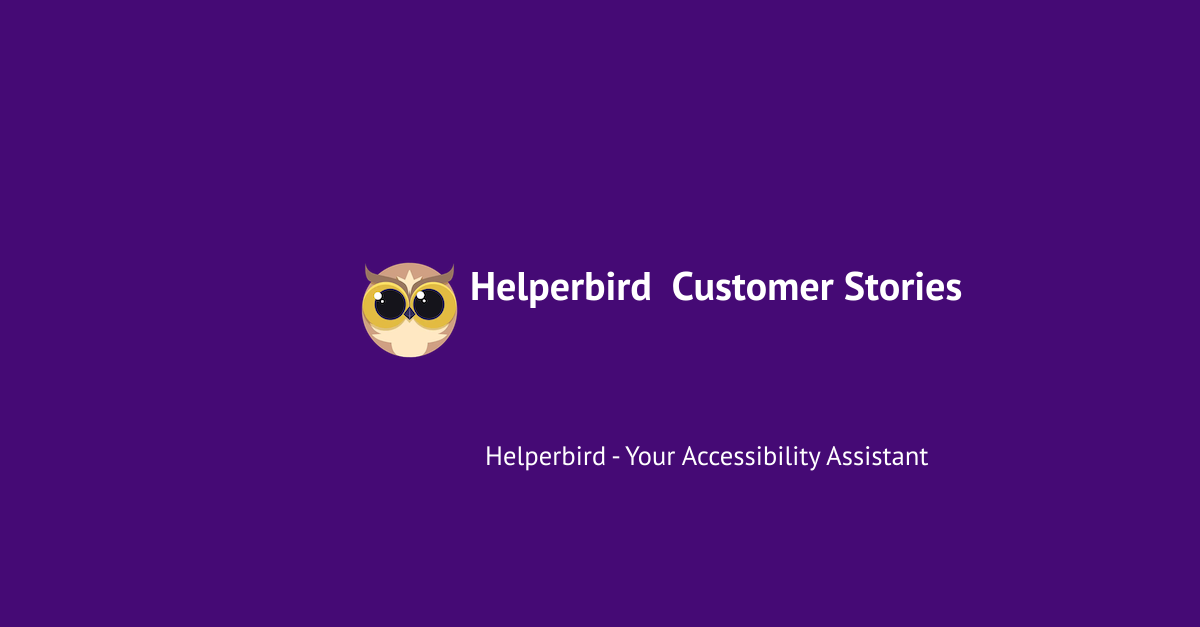
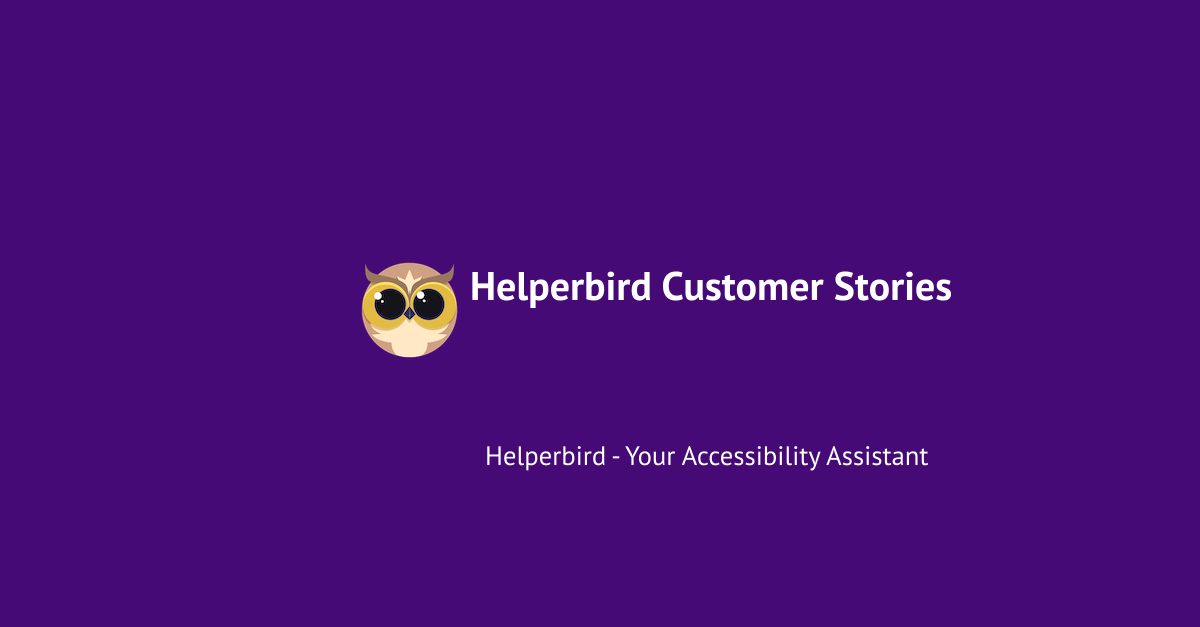
Deploying to gh-pages from  @ 8ba14b4f15c50b489070ff6d0cf342bdd75d0721 🚀

Changed region(s): [[0.555, 0.4242, 0.8017, 0.4848]]

diff --git a/usecases/index.html b/usecases/index.html
@@ -3,7 +3,7 @@
 <head>
   <meta charset="utf-8">
   <meta name="viewport" content="width=device-width, initial-scale=1.0">
-  <title>Helperbird  Customer Stories &amp; Case Studies - Helperbird</title>
+  <title>Customer Stories & Case Studies - Helperbird</title>
   <link href="/assets/js/main.css" rel="stylesheet" />
   <script>
     if ('serviceWorker' in navigator) {
@@ -13,7 +13,7 @@
 
   <link rel="canonical" href="https://www.helperbird.com/usecases/">
   <meta name="description" content="Explore genuine customer stories and detailed case studies highlighting the transformative impact of the Helperbird Chrome extension. Discover how users overcome learning challenges, enhance readability, and experience tailored digital solutions. Dive into success stories that validate Helperbird's commitment to accessibility and user-centric design.">
-  <meta name="keywords" content="Dyslexia software, Reading Mode for Google Chrome, Voice typing for Chrome, Text to speech for Chrome, text reader, Immersive Reader, dyslexia fonts, accessibility software, dyslexia software, Helperbird for Edge, Helperbird for Firefox, Helperbird for Chrome, Opendyslexic for Chrome, OpenDyslexic">
+  <meta name="keywords" content="Dyslexia software, Reading Mode for Google Chrome, Voice typing for Chrome, Text to speech for Chrome, text reader, Immersive Reader, dyslexia fonts, accessibility software, dyslexia software, Helperbird for Edge, Helperbird for Firefox, Helperbird for Chrome, OpenDyslexic for Chrome, OpenDyslexic">
 
   <meta name="theme-color" content="#5046e4">
   <meta itemprop="name" content="Helperbird">
@@ -23,18 +23,18 @@
   <meta name="twitter:card" content="summary_large_image">
   <meta name="twitter:site" content="@helperbird">
   <meta name="twitter:creator" content="@robertjgabriel">
-  <meta name="twitter:title" content="Helperbird  Customer Stories &amp; Case Studies">
+  <meta name="twitter:title" content="Customer Stories & Case Studies">
   <meta property="twitter:domain" content="helperbird.com">
 
   <meta property="twitter:url" content="https://www.helperbird.com/usecases/">
   <meta name="twitter:description" content="Explore genuine customer stories and detailed case studies highlighting the transformative impact of the Helperbird Chrome extension. Discover how users overcome learning challenges, enhance readability, and experience tailored digital solutions. Dive into success stories that validate Helperbird's commitment to accessibility and user-centric design.">
 
-  <meta name="twitter:image:alt" content="Helperbird promo art with text saying Helperbird  Customer Stories &amp; Case Studies">
+  <meta name="twitter:image:alt" content="Helperbird promo art with text saying Customer Stories & Case Studies">
   <meta name="twitter:image" content="https://www.helperbird.com/usecases/index.png">
 
   <meta property="og:locale" content="en_US">
   <meta property="og:type" content="website">
-  <meta property="og:title" content="Helperbird  Customer Stories &amp; Case Studies">
+  <meta property="og:title" content="Customer Stories & Case Studies">
   <meta property="og:description" content="Explore genuine customer stories and detailed case studies highlighting the transformative impact of the Helperbird Chrome extension. Discover how users overcome learning challenges, enhance readability, and experience tailored digital solutions. Dive into success stories that validate Helperbird's commitment to accessibility and user-centric design.">
   <meta property="og:url" content="https://www.helperbird.com/usecases/">
   <meta property="og:site_name" content="Helperbird">
@@ -2398,21 +2398,15 @@ aria-hidden="true"><g><rect fill="none" height="24" width="24"/></g><g><path d="
       
 
 
-<div class="mx-auto max-w-3xl mb-8 mt-8">
-
-<div class="px-6 py-16 lg:px-8 mb-4">
-
-    <h2 class="leading-relaxed font-sans text-center   text-3xl font-bold   text-black sm:text-5xl">Helperbird  Customer Stories &amp; Case Studies 
-    </h2>
-    <p class="leading-relaxed font-sans text-center    mt-6 text-xl  text-black sm:text-2xl">
-
-    Read from our customers on how Helperbird is changing their life.
-
+<div class="px-6 py-20 sm:py-16 lg:px-4 mb-4">
+  <div class="mx-auto max-w-4xl text-center">
+    <h2 class="leading-relaxed font-sans text-4xl font-bold text-black sm:text-6xl">Customer Stories &amp; Case Studies </h2>
+    <p class="leading-relaxed font-sans mt-6 text-2xl text-black">
+      Read from our customers on how Helperbird is changing their life.
     </p>
-
+  </div>
 </div>
 
-</div>
 
 
 
@@ -2420,87 +2414,118 @@ aria-hidden="true"><g><rect fill="none" height="24" width="24"/></g><g><path d="
 
 
 
-<div class="mx-auto  grid max-w-2xl grid-cols-1 gap-x-8 gap-y-20 lg:mx-0 lg:max-w-none md:grid-cols-3 lg:grid-cols-4 mt-16 mb-16 "><div class="card bg-white rounded-xl overflow-hidden flex flex-col">
+
+<div class="mx-auto grid max-w-2xl grid-cols-1 gap-x-8 gap-y-20 lg:mx-0 lg:max-w-none md:grid-cols-3 lg:grid-cols-4 mt-16 mb-16"><div class="card bg-white rounded-xl overflow-hidden flex flex-col">
       <figure class="p-4">
-          <img src="/assets/images/blog/reword-function-student-success-story/reword-helperbird.png" alt="Empowering Students with Helperbird’s Reword Function"
-               class="aspect-[16/9] w-full rounded-xl bg-gray-100 object-cover sm:aspect-[2/1] lg:aspect-[3/2]" />
+        <img 
+          src="/assets/images/blog/reword-function-student-success-story/reword-helperbird.png" 
+          alt="Empowering Students with Helperbird’s Reword Function" 
+          class="aspect-[16/9] w-full rounded-xl bg-gray-100 object-cover sm:aspect-[2/1] lg:aspect-[3/2]" 
+        />
       </figure>
-      <div class="card-body tw-p-4 flex flex-col flex-grow">
-          <h3 class="card-title font-bold">Empowering Students with Helperbird’s Reword Function</h3>
-          <div class="badge badge-secondary">Usecase</div>
-          <p class="my-6 text-base text-black overflow-hidden line-clamp-3 mb-4 mt-4">Dive into Alex’s transformative marketing journey with Helperbird's Immersive Reader. Learn how the Read Aloud and Text Spacing features significantly eased his workload, enabling more efficient and effective campaign management.</p>
-    
-              <div class="card-actions justify-end mt-4">
-                  <a href="/blog/reword-function-student-success-story/" title="Empowering Students with Helperbird’s Reword Function"
-                  class="link link-hover text-blue-500 hover:text-blue-700">Read use case</a>
-              </div>
-   
+      <div class="card-body p-4 flex flex-col flex-grow">
+        <h3 class="card-title font-bold text-lg">Empowering Students with Helperbird’s Reword Function</h3>
+        <div class="badge badge-secondary mt-2 mb-4">Usecase</div>
+        <p class="text-base text-black overflow-hidden line-clamp-3 mb-4">Dive into Alex’s transformative marketing journey with Helperbird's Immersive Reader. Learn how the Read Aloud and Text Spacing features significantly eased his workload, enabling more efficient and effective campaign management.</p>
+        <div class="card-actions mt-auto">
+          <a 
+            href="/blog/reword-function-student-success-story/" 
+            title="Read more about Empowering Students with Helperbird’s Reword Function" 
+            class="link link-hover text-blue-500 hover:text-blue-700"
+          >
+            Read use case
+          </a>
+        </div>
       </div>
-  </div><div class="card bg-white rounded-xl overflow-hidden flex flex-col">
+    </div><div class="card bg-white rounded-xl overflow-hidden flex flex-col">
       <figure class="p-4">
-          <img src="/assets/images/blog/helperbird-dyslexia-solutions-jamies-story/helperbird-ruler.png" alt="How Helperbird Transformed a Student's Academic Experience"
-               class="aspect-[16/9] w-full rounded-xl bg-gray-100 object-cover sm:aspect-[2/1] lg:aspect-[3/2]" />
+        <img 
+          src="/assets/images/blog/helperbird-dyslexia-solutions-jamies-story/helperbird-ruler.png" 
+          alt="How Helperbird Transformed a Student's Academic Experience" 
+          class="aspect-[16/9] w-full rounded-xl bg-gray-100 object-cover sm:aspect-[2/1] lg:aspect-[3/2]" 
+        />
       </figure>
-      <div class="card-body tw-p-4 flex flex-col flex-grow">
-          <h3 class="card-title font-bold">How Helperbird Transformed a Student's Academic Experience</h3>
-          <div class="badge badge-secondary">Usecase</div>
-          <p class="my-6 text-base text-black overflow-hidden line-clamp-3 mb-4 mt-4">Discover Jamie's inspirational story of overcoming reading challenges with the help of Helperbird's innovative features. Learn how the dyslexia ruler and Lexend font made a significant difference, and our commitment to protecting user identities while sharing their successes.</p>
-    
-              <div class="card-actions justify-end mt-4">
-                  <a href="/blog/helperbird-dyslexia-solutions-jamies-story/" title="How Helperbird Transformed a Student's Academic Experience"
-                  class="link link-hover text-blue-500 hover:text-blue-700">Read use case</a>
-              </div>
-   
+      <div class="card-body p-4 flex flex-col flex-grow">
+        <h3 class="card-title font-bold text-lg">How Helperbird Transformed a Student's Academic Experience</h3>
+        <div class="badge badge-secondary mt-2 mb-4">Usecase</div>
+        <p class="text-base text-black overflow-hidden line-clamp-3 mb-4">Discover Jamie's inspirational story of overcoming reading challenges with the help of Helperbird's innovative features. Learn how the dyslexia ruler and Lexend font made a significant difference, and our commitment to protecting user identities while sharing their successes.</p>
+        <div class="card-actions mt-auto">
+          <a 
+            href="/blog/helperbird-dyslexia-solutions-jamies-story/" 
+            title="Read more about How Helperbird Transformed a Student's Academic Experience" 
+            class="link link-hover text-blue-500 hover:text-blue-700"
+          >
+            Read use case
+          </a>
+        </div>
       </div>
-  </div><div class="card bg-white rounded-xl overflow-hidden flex flex-col">
+    </div><div class="card bg-white rounded-xl overflow-hidden flex flex-col">
       <figure class="p-4">
-          <img src="/assets/images/blog/immersive-reader-marketing-alexs-story/immersive-reader.png" alt="Elevating Marketing Efforts with Immersive Reader in Helperbird"
-               class="aspect-[16/9] w-full rounded-xl bg-gray-100 object-cover sm:aspect-[2/1] lg:aspect-[3/2]" />
+        <img 
+          src="/assets/images/blog/immersive-reader-marketing-alexs-story/immersive-reader.png" 
+          alt="Elevating Marketing Efforts with Immersive Reader in Helperbird" 
+          class="aspect-[16/9] w-full rounded-xl bg-gray-100 object-cover sm:aspect-[2/1] lg:aspect-[3/2]" 
+        />
       </figure>
-      <div class="card-body tw-p-4 flex flex-col flex-grow">
-          <h3 class="card-title font-bold">Elevating Marketing Efforts with Immersive Reader in Helperbird</h3>
-          <div class="badge badge-secondary">Usecase</div>
-          <p class="my-6 text-base text-black overflow-hidden line-clamp-3 mb-4 mt-4">Dive into Alex’s transformative marketing journey with Helperbird's Immersive Reader. Learn how the Read Aloud and Text Spacing features significantly eased his workload, enabling more efficient and effective campaign management.</p>
-    
-              <div class="card-actions justify-end mt-4">
-                  <a href="/blog/helperbird-immersive-reader-marketing-alexs-story/" title="Elevating Marketing Efforts with Immersive Reader in Helperbird"
-                  class="link link-hover text-blue-500 hover:text-blue-700">Read use case</a>
-              </div>
-   
+      <div class="card-body p-4 flex flex-col flex-grow">
+        <h3 class="card-title font-bold text-lg">Elevating Marketing Efforts with Immersive Reader in Helperbird</h3>
+        <div class="badge badge-secondary mt-2 mb-4">Usecase</div>
+        <p class="text-base text-black overflow-hidden line-clamp-3 mb-4">Dive into Alex’s transformative marketing journey with Helperbird's Immersive Reader. Learn how the Read Aloud and Text Spacing features significantly eased his workload, enabling more efficient and effective campaign management.</p>
+        <div class="card-actions mt-auto">
+          <a 
+            href="/blog/helperbird-immersive-reader-marketing-alexs-story/" 
+            title="Read more about Elevating Marketing Efforts with Immersive Reader in Helperbird" 
+            class="link link-hover text-blue-500 hover:text-blue-700"
+          >
+            Read use case
+          </a>
+        </div>
       </div>
-  </div><div class="card bg-white rounded-xl overflow-hidden flex flex-col">
+    </div><div class="card bg-white rounded-xl overflow-hidden flex flex-col">
       <figure class="p-4">
-          <img src="/assets/images/blog/helperbird-pdf-reader-rorys-story/pdf-reader.png" alt="Making PDFs Easier with Helperbird's PDF Reader"
-               class="aspect-[16/9] w-full rounded-xl bg-gray-100 object-cover sm:aspect-[2/1] lg:aspect-[3/2]" />
+        <img 
+          src="/assets/images/blog/helperbird-pdf-reader-rorys-story/pdf-reader.png" 
+          alt="Making PDFs Easier with Helperbird's PDF Reader" 
+          class="aspect-[16/9] w-full rounded-xl bg-gray-100 object-cover sm:aspect-[2/1] lg:aspect-[3/2]" 
+        />
       </figure>
-      <div class="card-body tw-p-4 flex flex-col flex-grow">
-          <h3 class="card-title font-bold">Making PDFs Easier with Helperbird's PDF Reader</h3>
-          <div class="badge badge-secondary">Usecase</div>
-          <p class="my-6 text-base text-black overflow-hidden line-clamp-3 mb-4 mt-4">Discover how rory, a hardworking professional, used Helperbird's PDF Reader to make dealing with PDF documents simpler and faster.</p>
-    
-              <div class="card-actions justify-end mt-4">
-                  <a href="/blog/helperbird-pdf-reader-rorys-story/" title="Making PDFs Easier with Helperbird's PDF Reader"
-                  class="link link-hover text-blue-500 hover:text-blue-700">Read use case</a>
-              </div>
-   
+      <div class="card-body p-4 flex flex-col flex-grow">
+        <h3 class="card-title font-bold text-lg">Making PDFs Easier with Helperbird's PDF Reader</h3>
+        <div class="badge badge-secondary mt-2 mb-4">Usecase</div>
+        <p class="text-base text-black overflow-hidden line-clamp-3 mb-4">Discover how rory, a hardworking professional, used Helperbird's PDF Reader to make dealing with PDF documents simpler and faster.</p>
+        <div class="card-actions mt-auto">
+          <a 
+            href="/blog/helperbird-pdf-reader-rorys-story/" 
+            title="Read more about Making PDFs Easier with Helperbird's PDF Reader" 
+            class="link link-hover text-blue-500 hover:text-blue-700"
+          >
+            Read use case
+          </a>
+        </div>
       </div>
-  </div><div class="card bg-white rounded-xl overflow-hidden flex flex-col">
+    </div><div class="card bg-white rounded-xl overflow-hidden flex flex-col">
       <figure class="p-4">
-          <img src="/assets/images/blog/helping-students-thrive-with-helperbirds-accessibility-tools/helperbird-tools.png" alt="Empowering Diverse Learners - Patricia's Story with Helperbird"
-               class="aspect-[16/9] w-full rounded-xl bg-gray-100 object-cover sm:aspect-[2/1] lg:aspect-[3/2]" />
+        <img 
+          src="/assets/images/blog/helping-students-thrive-with-helperbirds-accessibility-tools/helperbird-tools.png" 
+          alt="Empowering Diverse Learners - Patricia's Story with Helperbird" 
+          class="aspect-[16/9] w-full rounded-xl bg-gray-100 object-cover sm:aspect-[2/1] lg:aspect-[3/2]" 
+        />
       </figure>
-      <div class="card-body tw-p-4 flex flex-col flex-grow">
-          <h3 class="card-title font-bold">Empowering Diverse Learners - Patricia's Story with Helperbird</h3>
-          <div class="badge badge-secondary">Usecase</div>
-          <p class="my-6 text-base text-black overflow-hidden line-clamp-3 mb-4 mt-4">Patricia Ferris, an experienced teacher, transforms her classroom with Helperbird's accessibility tools, fostering independence and confidence among her students with diverse needs.</p>
-    
-              <div class="card-actions justify-end mt-4">
-                  <a href="/blog/helping-students-thrive-with-helperbirds-accessibility-tools/" title="Empowering Diverse Learners - Patricia's Story with Helperbird"
-                  class="link link-hover text-blue-500 hover:text-blue-700">Read use case</a>
-              </div>
-   
+      <div class="card-body p-4 flex flex-col flex-grow">
+        <h3 class="card-title font-bold text-lg">Empowering Diverse Learners - Patricia's Story with Helperbird</h3>
+        <div class="badge badge-secondary mt-2 mb-4">Usecase</div>
+        <p class="text-base text-black overflow-hidden line-clamp-3 mb-4">Patricia Ferris, an experienced teacher, transforms her classroom with Helperbird's accessibility tools, fostering independence and confidence among her students with diverse needs.</p>
+        <div class="card-actions mt-auto">
+          <a 
+            href="/blog/helping-students-thrive-with-helperbirds-accessibility-tools/" 
+            title="Read more about Empowering Diverse Learners - Patricia's Story with Helperbird" 
+            class="link link-hover text-blue-500 hover:text-blue-700"
+          >
+            Read use case
+          </a>
+        </div>
       </div>
-  </div></div>
+    </div></div>
 
 
 
@@ -2508,83 +2533,26 @@ aria-hidden="true"><g><rect fill="none" height="24" width="24"/></g><g><path d="
 
 
 
-<section class="rounded-xl shadow-md bg-white px-6 py-24 sm:py-32 lg:px-8 mt-16 mb-16 ">
-  <figure class="mx-auto max-w-2xl">
-    <p class="sr-only">5 out of 5 stars</p>
-    <div class="flex gap-x-1 text-blue-600">
-      <svg
-        class="h-5 w-5 flex-none"
-        viewBox="0 0 20 20"
-        fill="currentColor"
-        aria-hidden="true">
-        <path
-          fill-rule="evenodd"
-          d="M10.868 2.884c-.321-.772-1.415-.772-1.736 0l-1.83 4.401-4.753.381c-.833.067-1.171 1.107-.536 1.651l3.62 3.102-1.106 4.637c-.194.813.691 1.456 1.405 1.02L10 15.591l4.069 2.485c.713.436 1.598-.207 1.404-1.02l-1.106-4.637 3.62-3.102c.635-.544.297-1.584-.536-1.65l-4.752-.382-1.831-4.401z"
-          clip-rule="evenodd" />
-      </svg>
-      <svg
-        class="h-5 w-5 flex-none"
-        viewBox="0 0 20 20"
-        fill="currentColor"
-        aria-hidden="true">
-        <path
-          fill-rule="evenodd"
-          d="M10.868 2.884c-.321-.772-1.415-.772-1.736 0l-1.83 4.401-4.753.381c-.833.067-1.171 1.107-.536 1.651l3.62 3.102-1.106 4.637c-.194.813.691 1.456 1.405 1.02L10 15.591l4.069 2.485c.713.436 1.598-.207 1.404-1.02l-1.106-4.637 3.62-3.102c.635-.544.297-1.584-.536-1.65l-4.752-.382-1.831-4.401z"
-          clip-rule="evenodd" />
-      </svg>
-      <svg
-        class="h-5 w-5 flex-none"
-        viewBox="0 0 20 20"
-        fill="currentColor"
-        aria-hidden="true">
-        <path
-          fill-rule="evenodd"
-          d="M10.868 2.884c-.321-.772-1.415-.772-1.736 0l-1.83 4.401-4.753.381c-.833.067-1.171 1.107-.536 1.651l3.62 3.102-1.106 4.637c-.194.813.691 1.456 1.405 1.02L10 15.591l4.069 2.485c.713.436 1.598-.207 1.404-1.02l-1.106-4.637 3.62-3.102c.635-.544.297-1.584-.536-1.65l-4.752-.382-1.831-4.401z"
-          clip-rule="evenodd" />
-      </svg>
-      <svg
-        class="h-5 w-5 flex-none"
-        viewBox="0 0 20 20"
-        fill="currentColor"
-        aria-hidden="true">
-        <path
-          fill-rule="evenodd"
-          d="M10.868 2.884c-.321-.772-1.415-.772-1.736 0l-1.83 4.401-4.753.381c-.833.067-1.171 1.107-.536 1.651l3.62 3.102-1.106 4.637c-.194.813.691 1.456 1.405 1.02L10 15.591l4.069 2.485c.713.436 1.598-.207 1.404-1.02l-1.106-4.637 3.62-3.102c.635-.544.297-1.584-.536-1.65l-4.752-.382-1.831-4.401z"
-          clip-rule="evenodd" />
-      </svg>
-      <svg
-        class="h-5 w-5 flex-none"
-        viewBox="0 0 20 20"
-        fill="currentColor"
-        aria-hidden="true">
-        <path
-          fill-rule="evenodd"
-          d="M10.868 2.884c-.321-.772-1.415-.772-1.736 0l-1.83 4.401-4.753.381c-.833.067-1.171 1.107-.536 1.651l3.62 3.102-1.106 4.637c-.194.813.691 1.456 1.405 1.02L10 15.591l4.069 2.485c.713.436 1.598-.207 1.404-1.02l-1.106-4.637 3.62-3.102c.635-.544.297-1.584-.536-1.65l-4.752-.382-1.831-4.401z"
-          clip-rule="evenodd" />
-      </svg>
-    </div>
-    <blockquote class="mt-10 text-xl font-semibold leading-8 tracking-tight text-gray-900 sm:text-2xl sm:leading-9">
-      <p>“After using Helperbird I can't say enough positive things about it. This extension has
-        truly transformed my online reading experience. Whether it's adjusting font sizes,
-                                                                                                                                                                                                                                                                                                                                                                                                                                                                                                                                                                                                reducing eye strain with the gray filter, or using the dyslexia-friendly fonts,
-                                                                                                                                                                                                                                                                                                                                                                                                                                                                                                                                                                                                Helperbird offers a range of features that cater to individual preferences and needs.
-                                                                                                                                                                                                                                                                                                                                                                                                                                                                                                                                                                                                The customizable color options and text alignment have also been incredibly helpful for
-                                                                                                                                                                                                                                                                                                                                                                                                                                                                                                                                                                                                personalizing my browsing. And the speed reading feature? It's a game-changer! Overall,
-                                                                                                                                                                                                                                                                                                                                                                                                                                                                                                                                                                                                Helperbird is a versatile, user-friendly tool that enhances accessibility and makes
-                                                                                                                                                                                                                                                                                                                                                                                                                                                                                                                                                                                                online reading a breeze. Highly recommended!”</p>
-    </blockquote>
-    <figcaption class="mt-10 flex items-center gap-x-6">
-      <img
-        class="h-12 w-12 rounded-full bg-gray-50"
-        src="https://lh3.googleusercontent.com/a-/ALV-UjWfiQYso5iraH8ys2pABocchAK31fe8M0UppGotjTkI40o=s48-w48-h48"
-        alt="Charlie Nishelle Calkins">
-      <div class="text-sm leading-6">
-        <div class="font-semibold">Charlie Nishelle Calkins</div>
-        <div class=" mt-2 text-black">Helperbird Pro user</div>
+
+    <div class="bg-blue-900 rounded-3xl  my-24">
+        <div class="px-6 py-24 lg:px-8">
+          <div class="mx-auto max-w-2xl text-center">
+            <h2 class="text-3xl font-bold tracking-tight text-white sm:text-4xl">Get More Done with Helperbird! 🚀</h2>
+            <p class="mx-auto mt-6 max-w-xl text-lg leading-8 text-white">Want to make browsing the web easier and more accessible? Helperbird is here to help! With features like text-to-speech, Immersive Reader, and reading tools, Helperbird makes your online experience better.</p>
+            <div class="mt-10 flex items-center justify-center gap-x-4">
+              <button onclick="download_modal.showModal()" class="btn btn-lg btn-primary gap-2 shadow-md"   aria-label="Download Helperbird today and boost your accessibility & productivity">
+                
+                
+                <span>👉</span>    Download Helperbird Now
+
+
+          
+              </button>
+            </div>
+          </div>
+        </div>
       </div>
-    </figcaption>
-  </figure>
-</section>
+      
     </main>
     <footer class="helperbird-yellow" aria-labelledby="footer-heading">
 	<h2 id="footer-heading" class="sr-only">Footer</h2>

diff --git a/sitemap/index.html b/sitemap/index.html
@@ -7893,8 +7893,8 @@ aria-hidden="true"><g><rect fill="none" height="24" width="24"/></g><g><path d="
 
           <div>
 
-          <a href="/usecases/" class="leading-relaxed font-sans text-blue-600 hover:decoration-wavy hover:underline text-xl font-bold" title="Helperbird  Customer Stories &amp; Case Studies">
-            Helperbird  Customer Stories &amp; Case Studies
+          <a href="/usecases/" class="leading-relaxed font-sans text-blue-600 hover:decoration-wavy hover:underline text-xl font-bold" title="Customer Stories & Case Studies">
+            Customer Stories & Case Studies
           </a>
           
 
@@ -7907,7 +7907,7 @@ aria-hidden="true"><g><rect fill="none" height="24" width="24"/></g><g><path d="
             <div class="mt-3">
               <a
                 href="/usecases/"
-                title="Helperbird  Customer Stories &amp; Case Studies"
+                title="Customer Stories & Case Studies"
                 class="btn-sm btn-outline btn  rounded-xl shadow-md ">
                 Visit
               </a>

diff --git a/service-worker.js b/service-worker.js
@@ -3116,7 +3116,7 @@ self.__precacheManifest = [
   },
   {
     "url": "sitemap/index.html",
-    "revision": "2e77f1a1e1198e521b8971d95425d65c"
+    "revision": "e5fc6933e2d0302934cf4717abd4d03b"
   },
   {
     "url": "sitemap/index.png",
@@ -3232,11 +3232,11 @@ self.__precacheManifest = [
   },
   {
     "url": "usecases/index.html",
-    "revision": "44504b6e5d328ba9dc9f90b719586503"
+    "revision": "425f56e8174d507fa2a40c63f66154b3"
   },
   {
     "url": "usecases/index.png",
-    "revision": "36e4ec18f396a80f3099efe8235bd22f"
+    "revision": "fbd835bdca6d4ae0bd48b317e863be80"
   },
   {
     "url": "welcome/index.html",
